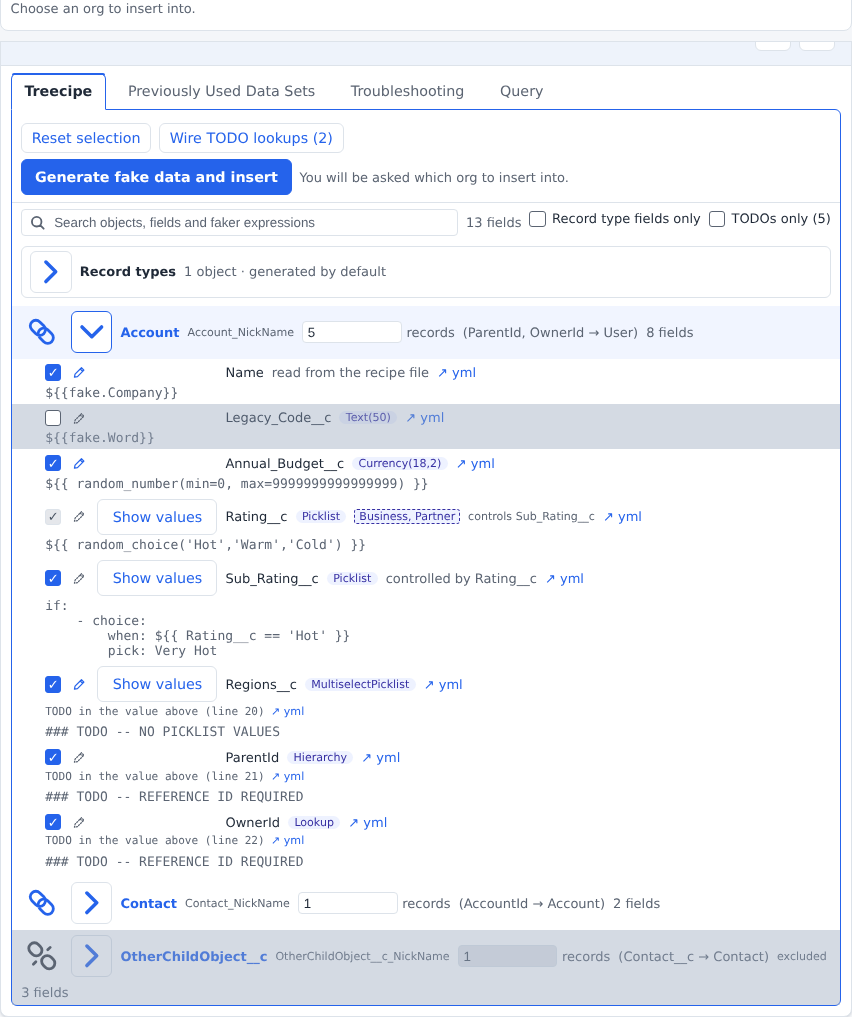
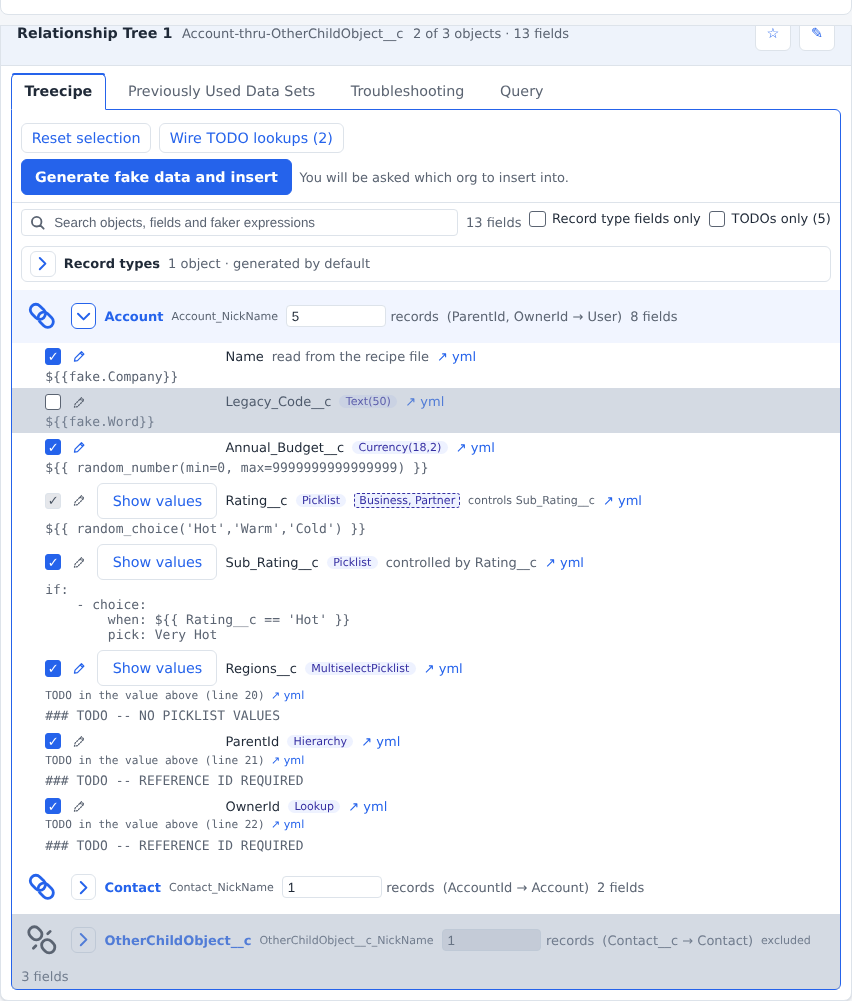
v3.117.0 — Recipe Cockpit: the chevron expand/collapse toggles are smaller, and every one is the same size (#392) (#395)
Every chevron toggle (Treecipe object rows, the Record types section
header, the TODO's and Validation Rules object groups) now carries one
shared chevronToggle class: a 1.6rem box holding a 1.2rem chevron, down
from 2.6rem/2.1rem, lifting the secondary kind's 2.25rem minimum. The
Troubleshooting chevrons, which had no size rule and were larger than
the object rows', now match. Guide screenshots re-taken.

Claude-Session: https://claude.ai/code/session_011S4EqzNTsKErxp7ozfLTd1

diff --git a/src/treecipe/src/RecipeCockpitService/tests/RecipeCockpitService.test.ts b/src/treecipe/src/RecipeCockpitService/tests/RecipeCockpitService.test.ts
@@ -443,11 +443,13 @@ describe('RecipeCockpitService', () => {
         // #244 MADE THE ▸/▾ BIG ENOUGH TO READ AT A GLANCE; #277 GAVE THE PICKLIST'S THE SAME SIZE AND CENTRED ALL THREE
         // #343: THE PICKLIST'S IS A TEXT BUTTON NOW, OF ONE FIXED WIDTH ITS SPACER SHARES
         // #374: A CARD HAS NO ▸ OF ITS OWN ANY MORE
-        it('draws the Treecipe object toggle as one centred 2.6rem box, the picklist button and its spacer one width, and the field rows centred on them', () => {
+        // #392: EVERY CHEVRON SHRANK TO ONE 1.6rem BOX, AND THE SECONDARY KIND'S 2.25rem MINIMUM NO LONGER HOLDS IT OPEN
+        it('draws every chevron toggle as one centred 1.6rem box holding a 1.2rem glyph, the picklist button and its spacer one width, and the field rows centred on them', () => {
 
             const styleSheet = styleSheetOf(RecipeCockpitService.buildWebviewShellHtml('testNonce'));
-            const toggleBoxRule = ruleFor(styleSheet, '\\.treeObjectToggle');
-            const toggleCentringRule = ruleFor(styleSheet, '\\.treeObjectToggle');
+            const toggleBoxRule = ruleFor(styleSheet, '\\.chevronToggle');
+            const toggleCentringRule = ruleFor(styleSheet, '\\.chevronToggle');
+            expect(ruleFor(styleSheet, '\\.treeObjectToggle')).toBe('');
             expect(styleSheet).not.toContain('.treeToggle');
             const picklistWidthRule = ruleFor(styleSheet, '\\.picklistToggle, \\.picklistToggleSpacer');
 
@@ -456,8 +458,15 @@ describe('RecipeCockpitService', () => {
             expect(ruleFor(styleSheet, '\\.picklistToggle')).toContain('white-space: nowrap;');
             expect(styleSheet).not.toMatch(/\.picklistToggle[^{]*\{[^}]*height: 2\.6rem/);
 
-            expect(toggleBoxRule).toContain('width: 2.6rem;');
-            expect(toggleBoxRule).toContain('height: 2.6rem;');
+            expect(toggleBoxRule).toContain('width: 1.6rem;');
+            expect(toggleBoxRule).toContain('height: 1.6rem;');
+            expect(toggleBoxRule).toContain('min-width: 0;');
+            expect(toggleBoxRule).toContain('min-height: 0;');
+            expect(styleSheet.indexOf(toggleBoxRule)).toBeGreaterThan(styleSheet.indexOf(ruleFor(styleSheet, '\\.sdtButton-primary, \\.sdtButton-secondary')));
+            const toggleGlyphRule = ruleFor(styleSheet, '\\.toggleGlyph');
+            expect(toggleGlyphRule).toContain('width: 1.2rem;');
+            expect(toggleGlyphRule).toContain('height: 1.2rem;');
+            expect(styleSheet).not.toMatch(/2\.6rem[^}]*\}[^{]*\.toggleGlyph|\.toggleGlyph \{[^}]*2\.1rem/);
             expect(toggleCentringRule).toContain('display: inline-flex;');
             expect(toggleCentringRule).toContain('align-items: center;');
             expect(toggleCentringRule).toContain('justify-content: center;');
@@ -2222,6 +2231,7 @@ describe('RecipeCockpitService', () => {
 
             const accountElement = treeObjectNamed(panel, firstTreeCard, 'Account');
             const objectToggle = panel.findAll(accountElement, 'treeObjectToggle')[0];
+            expect(objectToggle.classList.contains('chevronToggle')).toBe(true);
             expect(objectToggle.textContent).toBe('');
             expect(objectToggle.children[0].namespaceURI).toBe('http://www.w3.org/2000/svg');
             expect(objectToggle.children[0].attributes['aria-hidden']).toBe('true');

diff --git a/src/treecipe/src/RecipeCockpitService/RecipeCockpitService.ts b/src/treecipe/src/RecipeCockpitService/RecipeCockpitService.ts
@@ -333,7 +333,9 @@ export const RECIPE_COCKPIT_VALIDATION_RULE_NOT_APPLIED_LABEL = 'rule not applie
 /*
     The ▸/▾ of a tree card, a Treecipe object and a picklist field (#277), drawn like the chain link: a
     font's triangle sits on the text baseline, so no button rule could centre it. An open chevron (#307)
-    whose box is centred on (12, 12) in the same 24x24 view box, stroked from the palette by CSS.
+    whose box is centred on (12, 12) in the same 24x24 view box, stroked from the palette by CSS. Every
+    toggle carries chevronToggle, one 1.6rem box holding a 1.2rem glyph (#392), which lifts the
+    secondary kind's 2.25rem minimum; the stroke is in view box units, so it thins with the glyph.
 */
 export const RECIPE_COCKPIT_TOGGLE_COLLAPSED_GLYPH_PATH = 'M8.5 5 L15.5 12 L8.5 19';
 // The magnifier inside every search box (#373): a lens and a handle in the same 24x24 view box, stroked from the palette.
@@ -12910,11 +12912,13 @@ ${this.buildPaletteCustomProperties()}
     }
     .dataOrgRefresh { display: inline-flex; align-items: center; gap: 0.35rem; line-height: 1; }
     .dataOrgRefreshIcon { font-size: 1.5em; line-height: 1; }
-    .treeObjectToggle {
+    .chevronToggle {
         box-sizing: border-box;
         flex: none;
-        width: 2.6rem;
-        height: 2.6rem;
+        width: 1.6rem;
+        height: 1.6rem;
+        min-width: 0;
+        min-height: 0;
         display: inline-flex;
         align-items: center;
         justify-content: center;
@@ -12924,7 +12928,7 @@ ${this.buildPaletteCustomProperties()}
     .picklistToggle, .picklistToggleSpacer { box-sizing: border-box; flex: none; width: 7.5rem; }
     .picklistToggle { display: inline-flex; align-items: center; justify-content: center; padding: 0.4rem 0.6rem; line-height: 1; white-space: nowrap; }
     .picklistToggleSpacer { display: inline-block; height: 1px; }
-    .toggleGlyph { display: block; width: 2.1rem; height: 2.1rem; transition: transform ${RECIPE_COCKPIT_MOTION_REVEAL_MILLISECONDS}ms ease; }
+    .toggleGlyph { display: block; width: 1.2rem; height: 1.2rem; transition: transform ${RECIPE_COCKPIT_MOTION_REVEAL_MILLISECONDS}ms ease; }
     [aria-expanded="true"] > .toggleGlyph { transform: rotate(90deg); }
     .noMotion > .toggleGlyph { transition: none; }
     .toggleGlyph path { fill: none; stroke: var(--sdt-accent); stroke-width: 2.5; stroke-linecap: round; stroke-linejoin: round; }
@@ -15153,7 +15157,7 @@ ${this.buildPaletteCustomProperties()}
     */
     function buildToggleElement(className) {
 
-        const toggleElement = createButton('secondary', className);
+        const toggleElement = createButton('secondary', 'chevronToggle ' + className);
         const glyphElement = document.createElementNS(SVG_NAMESPACE, 'svg');
         const pathElement = document.createElementNS(SVG_NAMESPACE, 'path');
 

diff --git a/src/treecipe/src/RecipeCockpitService/tests/RecipeCockpitTroubleshootingSubTabs.test.ts b/src/treecipe/src/RecipeCockpitService/tests/RecipeCockpitTroubleshootingSubTabs.test.ts
@@ -275,6 +275,7 @@ describe('RecipeCockpitService, the Troubleshooting tab\'s sub-tabs (#365)', () 
             // THE FIRST GROUP ALWAYS OPENS; THE NEXT WOULD PASS THE ROW BUDGET, SO IT AND EVERY LATER ONE STAY CLOSED AND UNBUILT
             expect(groups.map(rowCountOf)).toEqual([1503, 0, 0]);
             expect(groups.map((groupElement: any) => toggleOf(groupElement).attributes['aria-expanded'])).toEqual(['true', 'false', 'false']);
+            expect(groups.every((groupElement: any) => toggleOf(groupElement).classList.contains('chevronToggle'))).toBe(true);
             expect(panel.findAll(groups[1], 'troubleshootingTodoCount')[0].textContent).toBe('1501 TODOs');
 
             toggleOf(groups[1]).dispatch('click');

diff --git a/src/treecipe/src/RecipeCockpitService/tests/RecipeCockpitRecordTypes.test.ts b/src/treecipe/src/RecipeCockpitService/tests/RecipeCockpitRecordTypes.test.ts
@@ -666,6 +666,7 @@ describe('RecipeCockpitService, the Record types tab (#195)', () => {
             expect(panel.findAll(panel.treeCards()[0], 'recordTypesSection')[0].classList.contains('disabled')).toBe(false);
             expect(panel.findAll(panel.treeCards()[1], 'recordTypesSection')).toHaveLength(1);
             expect(panel.findAll(panel.treeCards()[1], 'recordTypesSection')[0].classList.contains('disabled')).toBe(true);
+            expect(sectionToggleOf(panel).classList.contains('chevronToggle')).toBe(true);
 
         });
 

diff --git a/src/treecipe/src/RecipeCockpitService/tests/RecipeCockpitValidationRuleList.test.ts b/src/treecipe/src/RecipeCockpitService/tests/RecipeCockpitValidationRuleList.test.ts
@@ -756,6 +756,7 @@ describe('RecipeCockpitService, the Validation Rules list (#327)', () => {
 
             // A READER'S CLICK OPENS AND CLOSES A GROUP
             const toggle = panel.findAll(panel.findAll(subPanel, 'validationRuleObject')[objectCount - 1], 'validationRuleToggle')[0];
+            expect(toggle.classList.contains('chevronToggle')).toBe(true);
             toggle.dispatch('click');
             expect(toggle.attributes['aria-expanded']).toBe('false');
 

diff --git a/CHANGELOG.md b/CHANGELOG.md
@@ -1,5 +1,18 @@
 # Change Log
 
+## [3.119.0] - Recipe Cockpit: the chevron expand/collapse toggles are smaller, and every one is the same size
+
+Closes [#392](https://github.com/jdschleicher/Salesforce-Data-Treecipe/issues/392).
+
+#244 made the chevrons about three times larger, and #307's outlined chevron kept that size, so they crowded the rows. The Troubleshooting sub-tabs' chevrons were also a different size from the Treecipe tab's, because they had no size rule of their own and took the `secondary` button's padding and 2.25rem minimum.
+
+- **One smaller size.** Every chevron (Treecipe object rows, the Record types section header, the TODO's object groups, the Validation Rules object groups) is a 1.6rem box holding a 1.2rem chevron, down from 2.6rem and 2.1rem. `buildToggleElement` adds one shared `chevronToggle` class, which carries the box and lifts the secondary kind's minimum.
+- **Stroke.** The stroke width stays 2.5 in the chevron's 24×24 view box, so it thins with the glyph to 2px on screen, the weight of the chain link beside it.
+- **Still a usable target.** 1.6rem is about 25.6px, over the 24px minimum target size.
+- **Unchanged.** The rotate on `aria-expanded` (#227), `prefers-reduced-motion`, the colours, the button kind, and the chain-link include button and its spacer (#257), which stay one width so every row still lines up.
+- **Guide.** The screenshots in `docs/RECIPE-COCKPIT-GUIDE.md` were re-taken.
+- **Tests.** `RecipeCockpitService.test.ts` holds `.chevronToggle` to 1.6rem with no minimum, after the kind's rule, and the glyph to 1.2rem; the object row, Record types, TODO's and Validation Rules suites check each toggle carries `chevronToggle`.
+
 ## [3.118.0] - Recipe Cockpit: TODO's rows put the field first with its line link, and Remove TODO / Restore move a TODO between Open and Removed
 
 Closes [#391](https://github.com/jdschleicher/Salesforce-Data-Treecipe/issues/391).
